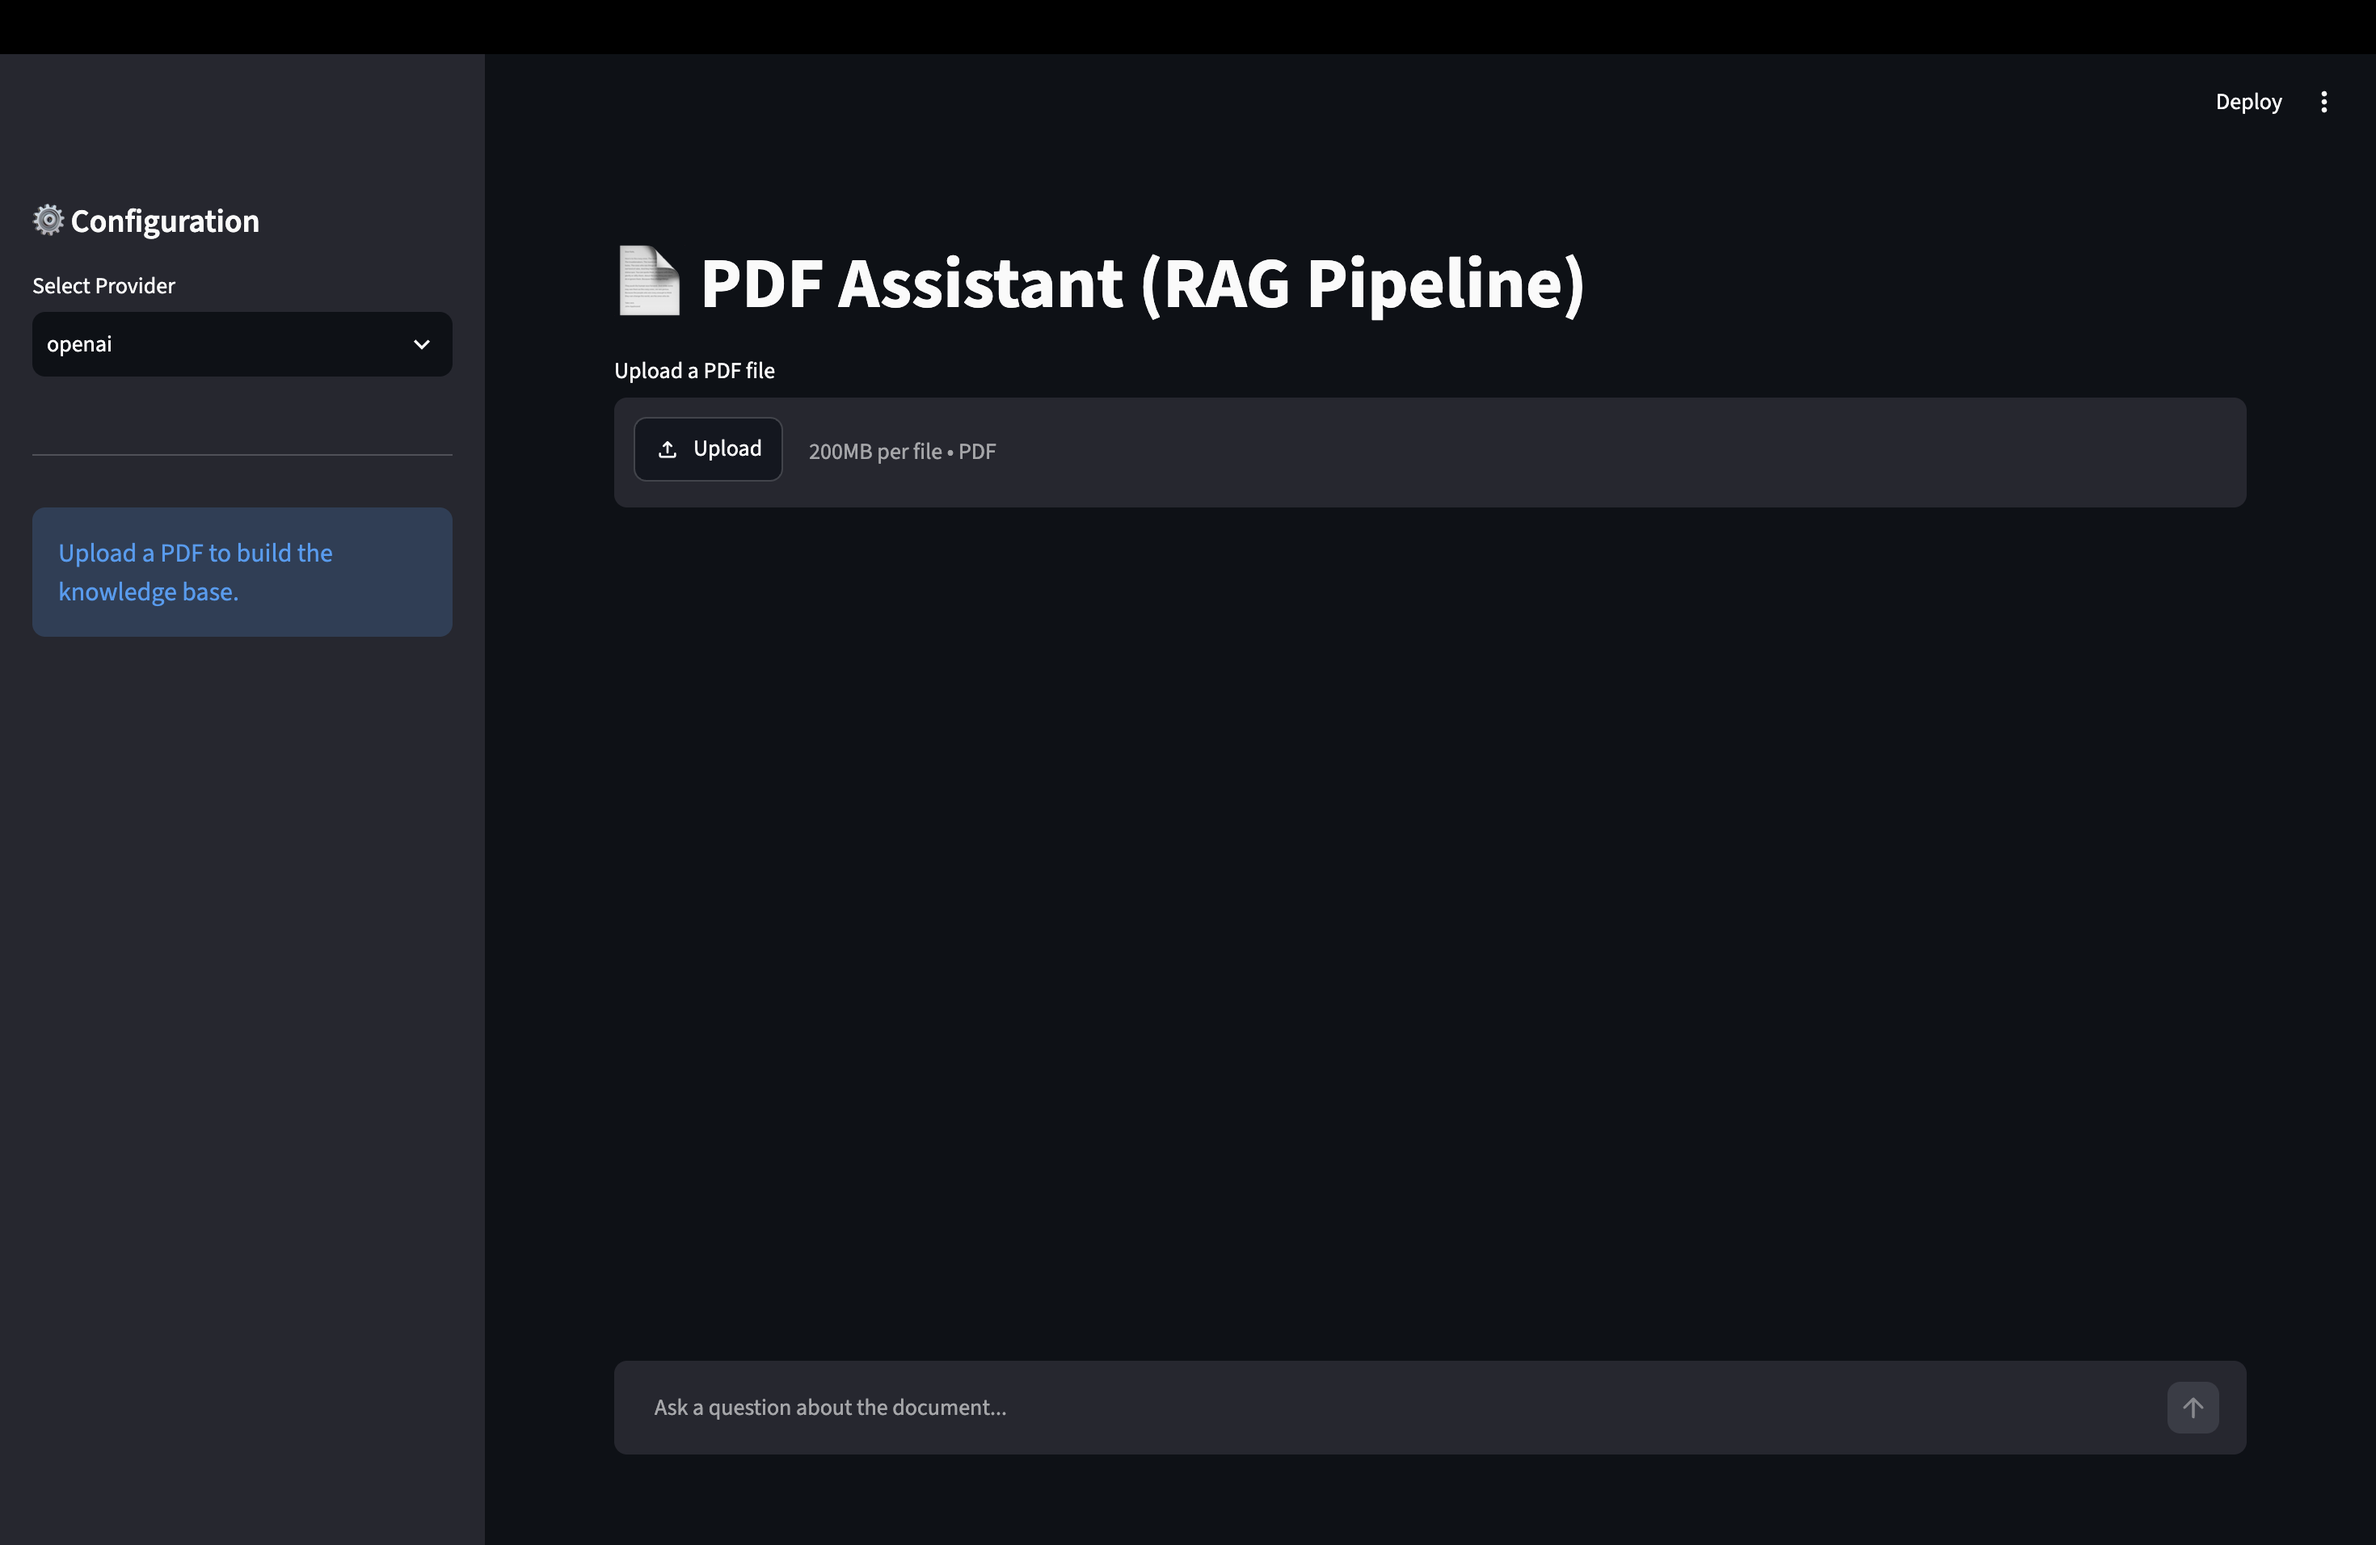
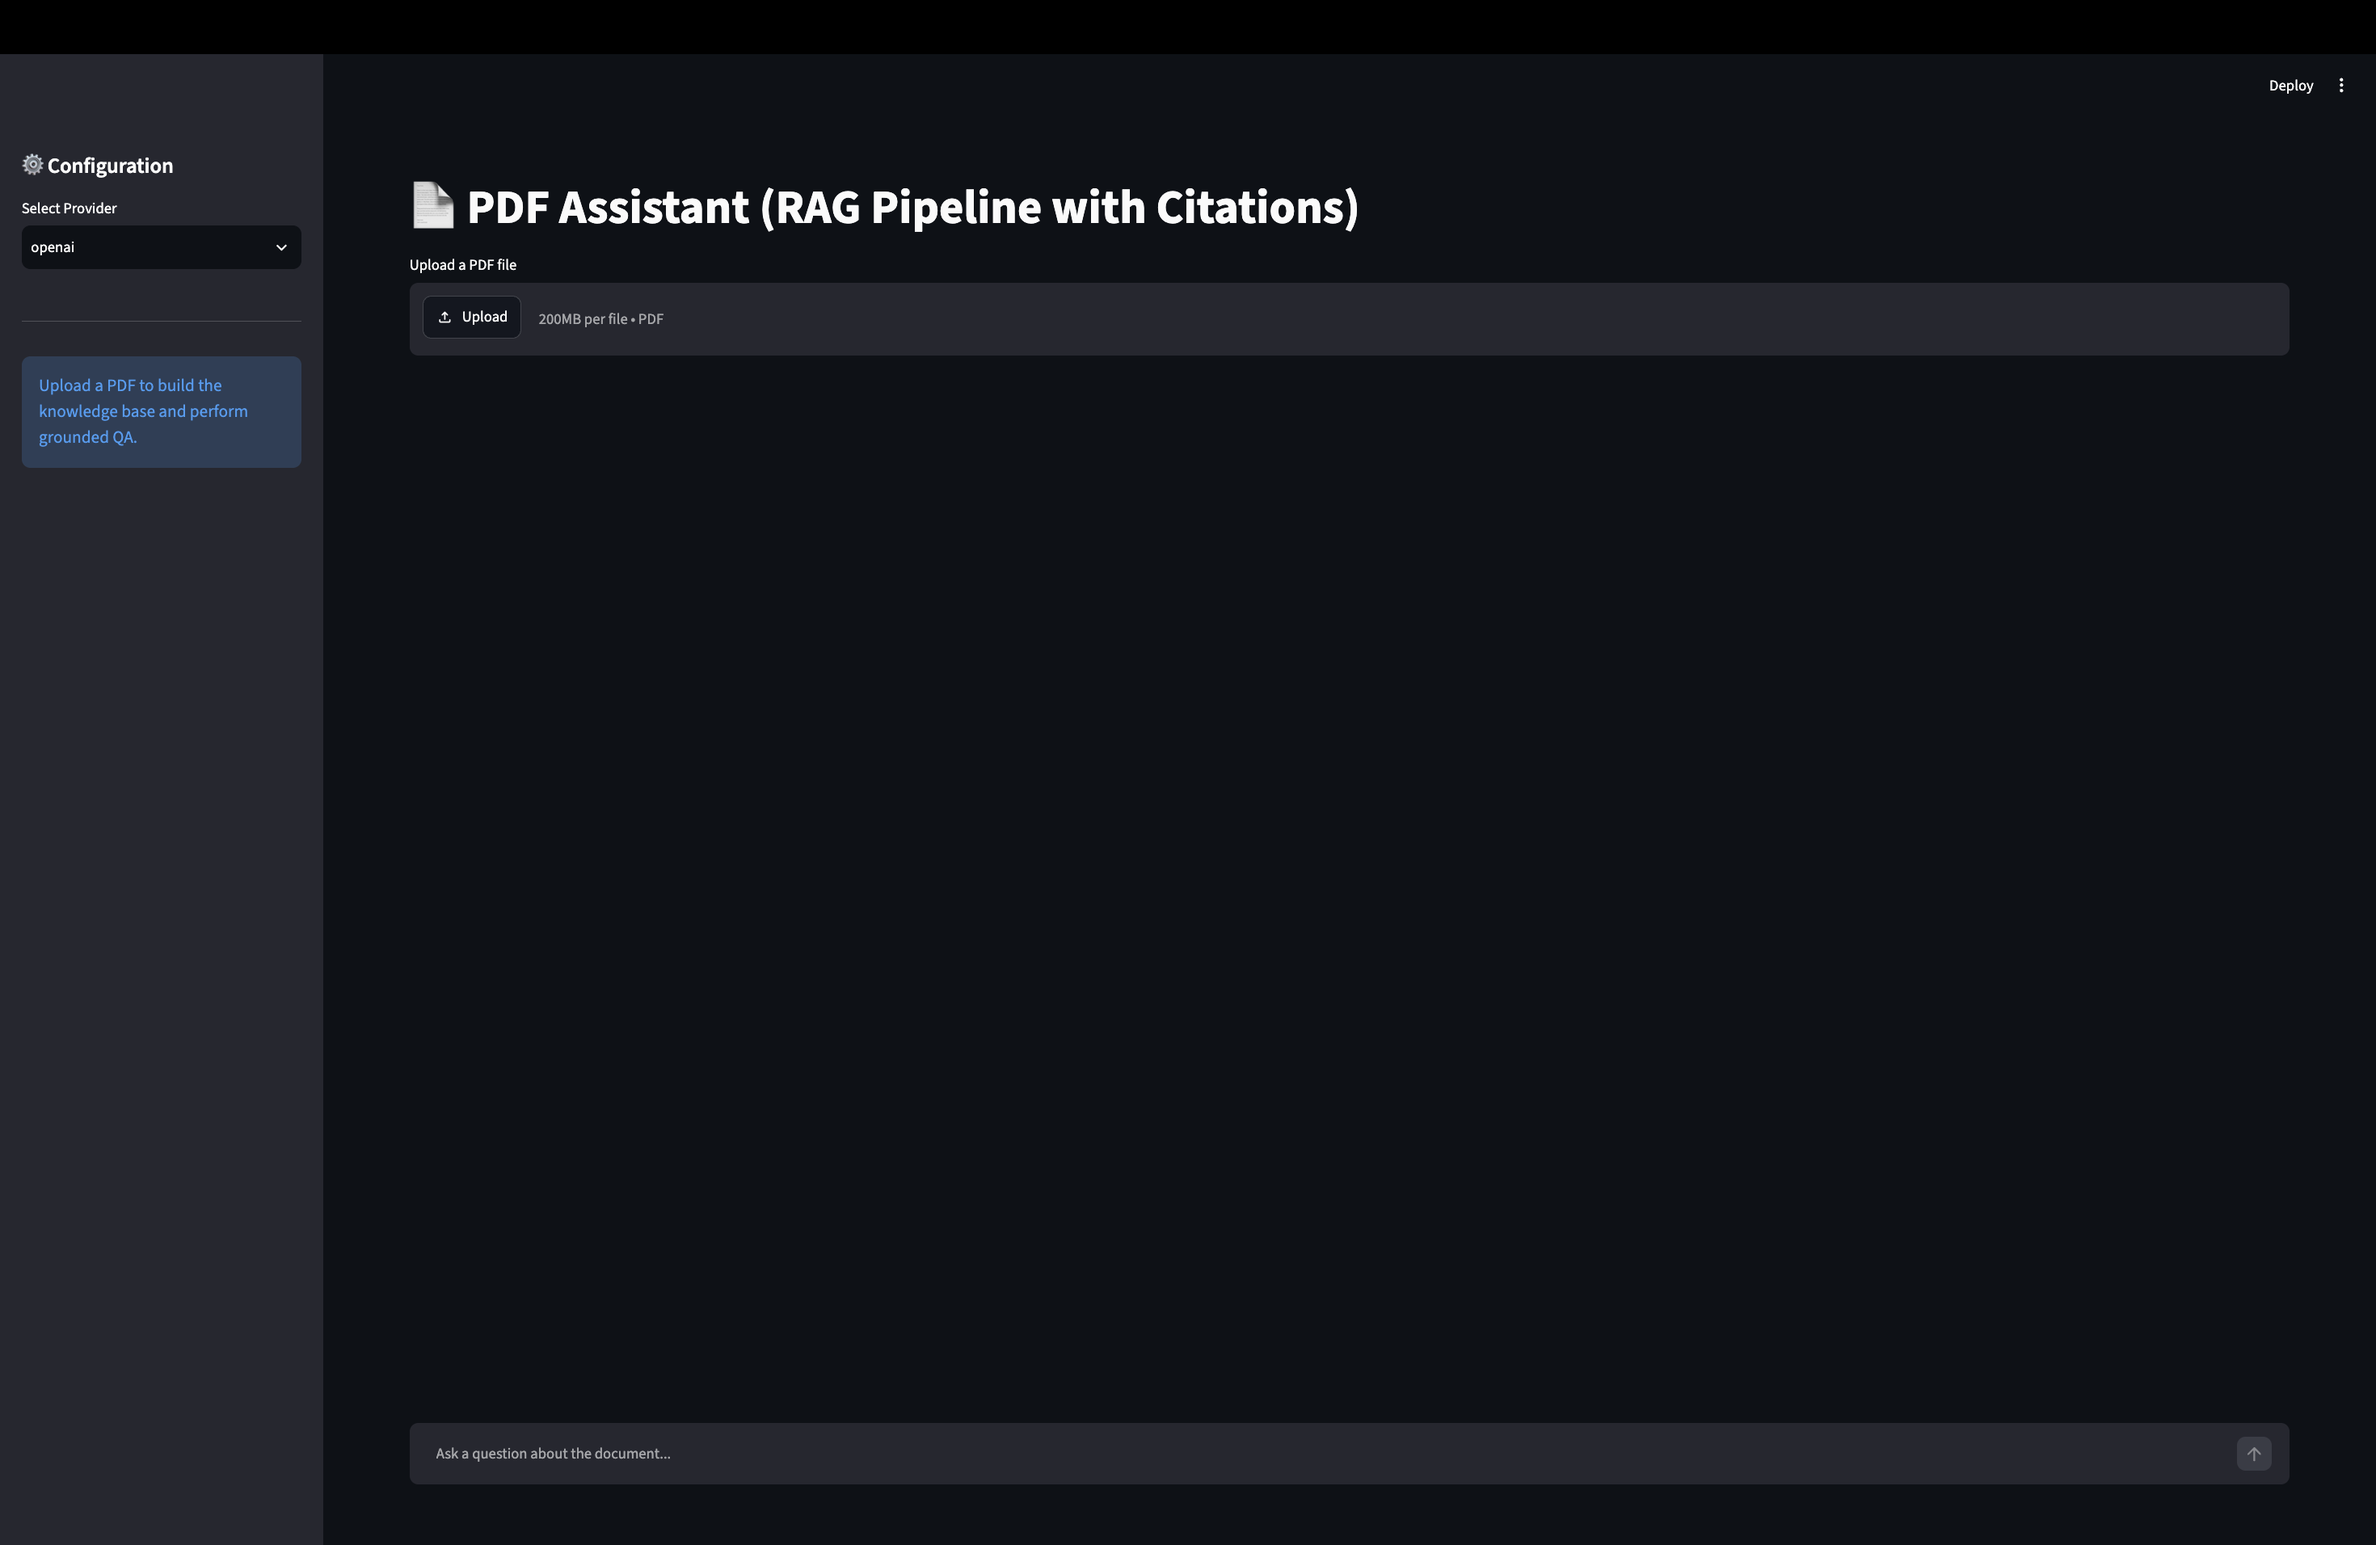
add citation

Changed region(s): [[0.0, 0.0309, 0.9905, 1.0], [0.9286, 0.0617, 0.9595, 0.0926]]

diff --git a/app.py b/app.py
@@ -8,10 +8,12 @@ from src.document_processor import DocumentProcessor
 from src.vector_store import VectorStoreManager
 from src.rag_engine import RAGEngine
 
-st.set_page_config(page_title="PDF RAG Assistant", layout="wide")
-st.title("📄 PDF Assistant (RAG Pipeline)")
+# ------------------------------------------------------------------------------
+# 1. Page Configuration & Sidebar Setup
+# ------------------------------------------------------------------------------
+st.set_page_config(page_title="PDF RAG Assistant with Sources", layout="wide")
+st.title("📄 PDF Assistant (RAG Pipeline with Citations)")
 
-# Sidebar Settings
 with st.sidebar:
     st.header("⚙ Configuration")
     provider = st.selectbox("Select Provider", ["openai", "ollama"], index=0)
@@ -23,71 +25,106 @@ with st.sidebar:
             st.warning("Please enter your OpenAI API key to continue.")
 
     st.markdown("---")
-    st.info("Upload a PDF to build the knowledge base.")
+    st.info("Upload a PDF to build the knowledge base and perform grounded QA.")
 
-# Instantiate Config dynamically
+# Instantiate dynamic configuration based on UI selection
 config = Config(
     MODEL_PROVIDER=provider,
     OPENAI_API_KEY=api_key if provider == "openai" else ""
 )
 
-# Manage Session States
+# ------------------------------------------------------------------------------
+# 2. Session State Initialization
+# ------------------------------------------------------------------------------
 if "messages" not in st.session_state:
     st.session_state.messages = []
 
 if "rag_chain" not in st.session_state:
     st.session_state.rag_chain = None
 
-# PDF Upload Section
+# ------------------------------------------------------------------------------
+# 3. PDF Ingestion & Pipeline Assembly
+# ------------------------------------------------------------------------------
 uploaded_file = st.file_uploader("Upload a PDF file", type=["pdf"])
 
 if uploaded_file and (provider == "ollama" or api_key):
     if st.button("Process Document"):
-        with st.spinner("Processing PDF and generating embeddings..."):
+        with st.spinner("Processing PDF, generating embeddings, and indexing..."):
             try:
-                # Save uploaded file temporarily
+                # Save uploaded file to a temporary location
                 with tempfile.NamedTemporaryFile(delete=False, suffix=".pdf") as tmp_file:
                     tmp_file.write(uploaded_file.read())
                     tmp_path = tmp_file.name
 
-                # Process PDF -> Chunks
+                # Step A: Parse and Chunk Document
                 processor = DocumentProcessor(config)
                 chunks = processor.process_pdf(tmp_path)
-                st.write(f"Created {len(chunks)} text chunks.")
+                st.write(f"Created **{len(chunks)}** text chunks.")
 
-                # Vector Store -> Retriever
+                # Step B: Index Chunks into Vector Store
                 vs_manager = VectorStoreManager(config)
                 vector_store = vs_manager.create_vector_store(chunks)
                 retriever = vector_store.as_retriever(search_kwargs={"k": 3})
 
-                # Build RAG Chain
+                # Step C: Construct RAG Chain
                 rag_engine = RAGEngine(config)
                 st.session_state.rag_chain = rag_engine.build_chain(retriever)
 
-                st.success("PDF indexed successfully! You can now ask questions below.")
+                st.success("PDF processed successfully! You can now ask questions with source grounding.")
                 os.remove(tmp_path)  # Cleanup temp file
             except Exception as e:
                 st.error(f"Error processing file: {str(e)}")
 
-# Display Chat Messages
+# ------------------------------------------------------------------------------
+# 4. Render Conversation History with Sources
+# ------------------------------------------------------------------------------
 for message in st.session_state.messages:
     with st.chat_message(message["role"]):
         st.markdown(message["content"])
+        
+        # Render source citations for previous assistant messages
+        if "sources" in message and message["sources"]:
+            with st.expander("🔍 View Referenced Context & Page Numbers"):
+                for idx, doc in enumerate(message["sources"], start=1):
+                    # PyPDF stores 0-indexed page numbers in metadata['page']
+                    page_num = doc.metadata.get("page", 0) + 1 
+                    st.markdown(f"**Reference [{idx}] — Page {page_num}**")
+                    st.info(f'"{doc.page_content.strip()}"')
 
-# User Chat Input
+# ------------------------------------------------------------------------------
+# 5. User Input & Inference Execution
+# ------------------------------------------------------------------------------
 if prompt := st.chat_input("Ask a question about the document..."):
     if not st.session_state.rag_chain:
         st.error("Please upload and process a PDF document first.")
     else:
-        # User message
+        # A. Display User Question
         st.session_state.messages.append({"role": "user", "content": prompt})
         with st.chat_message("user"):
             st.markdown(prompt)
 
-        # Assistant message
+        # B. Generate Assistant Answer & Extract Citations
         with st.chat_message("assistant"):
             with st.spinner("Searching document & generating answer..."):
                 response = st.session_state.rag_chain.invoke({"input": prompt})
+                
                 answer = response["answer"]
+                source_documents = response.get("context", [])  # Retrieved chunks
+
+                # Render LLM Answer
                 st.markdown(answer)
-                st.session_state.messages.append({"role": "assistant", "content": answer})
+
+                # Render Citation Collapsible Box
+                if source_documents:
+                    with st.expander("🔍 View Referenced Context & Page Numbers"):
+                        for idx, doc in enumerate(source_documents, start=1):
+                            page_num = doc.metadata.get("page", 0) + 1
+                            st.markdown(f"**Reference [{idx}] — Page {page_num}**")
+                            st.info(f'"{doc.page_content.strip()}"')
+
+                # C. Save Output and Sources to Session State
+                st.session_state.messages.append({
+                    "role": "assistant",
+                    "content": answer,
+                    "sources": source_documents
+                })

diff --git a/src/rag_engine.py b/src/rag_engine.py
@@ -25,10 +25,10 @@ class RAGEngine:
         )
 
     def build_chain(self, retriever):
-        """Creates a retrieval QA chain."""
+        """Builds a retrieval QA chain that preserves source documents in response['context']."""
         system_prompt = (
-            "You are a helpful assistant answering questions based on provided document context.\n"
-            "Use only the provided context below to answer the user's question. "
+            "You are an assistant for question-answering tasks. "
+            "Use the provided context to answer the user's question. "
             "If you do not know the answer based on the context, state that you don't know.\n\n"
             "Context:\n{context}"
         )
@@ -39,4 +39,6 @@ class RAGEngine:
         ])
         
         question_answer_chain = create_stuff_documents_chain(self.llm, prompt)
+        # create_retrieval_chain automatically injects the retrieved list of Document objects 
+        # into the 'context' key of the output dictionary.
         return create_retrieval_chain(retriever, question_answer_chain)
